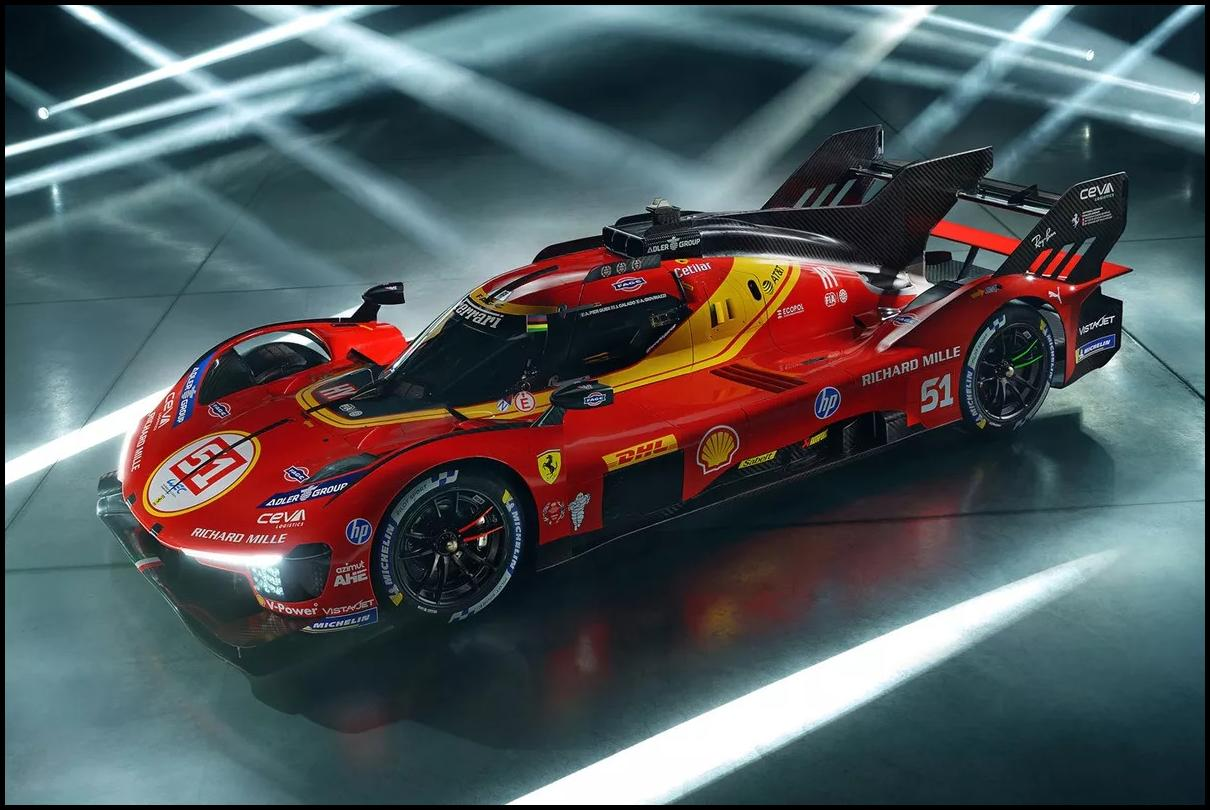
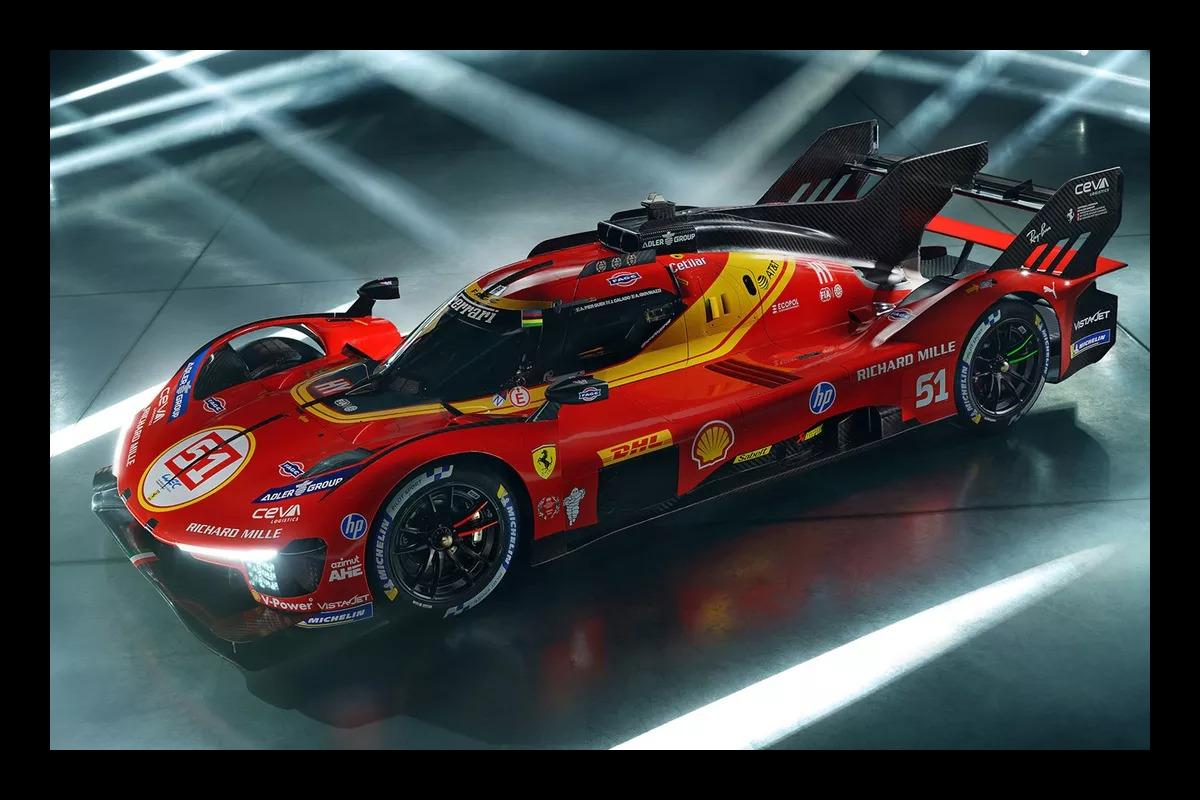
carde & recadre

diff --git a/TP_Image/TP_Image.py b/TP_Image/TP_Image.py
@@ -28,14 +28,25 @@ def negatif(im):
                 t[i,j,k] = 255 - t[i,j,k]
     return Image.fromarray(t)
 
-def cadre(im, ep):
-    t=np.array(im)
-    h, l, r=t.shape
-    new = np.zeros((h + 2 * ep, l + 2 * ep, 3), dtype=np.uint8)
+def cadre_noir(im, ep):
+    t = np.array(im)
+    h, l, r = t.shape
     for i in range(h):
         for j in range(l):
-            new[i + ep, j + ep] = t[i, j]
+            if i < ep or i >= h - ep or j < ep or j >= l - ep:
+                t[i][j] = [0, 0, 0]
+    return Image.fromarray(t)
+
+def rajout_cadre(im, ep):
+    t = np.array(im)
+    h, l, r = t.shape
+    new = np.zeros((h + 2 * ep, l + 2 * ep, 3), dtype="uint8")
+    for i in range(h):
+        for j in range(l):
+            new[i + ep][j + ep] = t[i][j]
     return Image.fromarray(new)
+
+
 
 """alls"""
 
@@ -55,6 +66,11 @@ cocci_neg.save("cocci_neg.jpg")
 cocci_neg.show()
 
 cocci=Image.open("499p.jpg")
-cocci_cadre=cadre(cocci, 5)
+cocci_cadre=cadre_noir(cocci, 50)
 cocci_cadre.save("cocci_cadre.jpg")
 cocci_cadre.show()
+
+cocci=Image.open("499p.jpg")
+cocci_rajout=rajout_cadre(cocci, 50)
+cocci_rajout.save("cocci_rajout.jpg")
+cocci_rajout.show()
